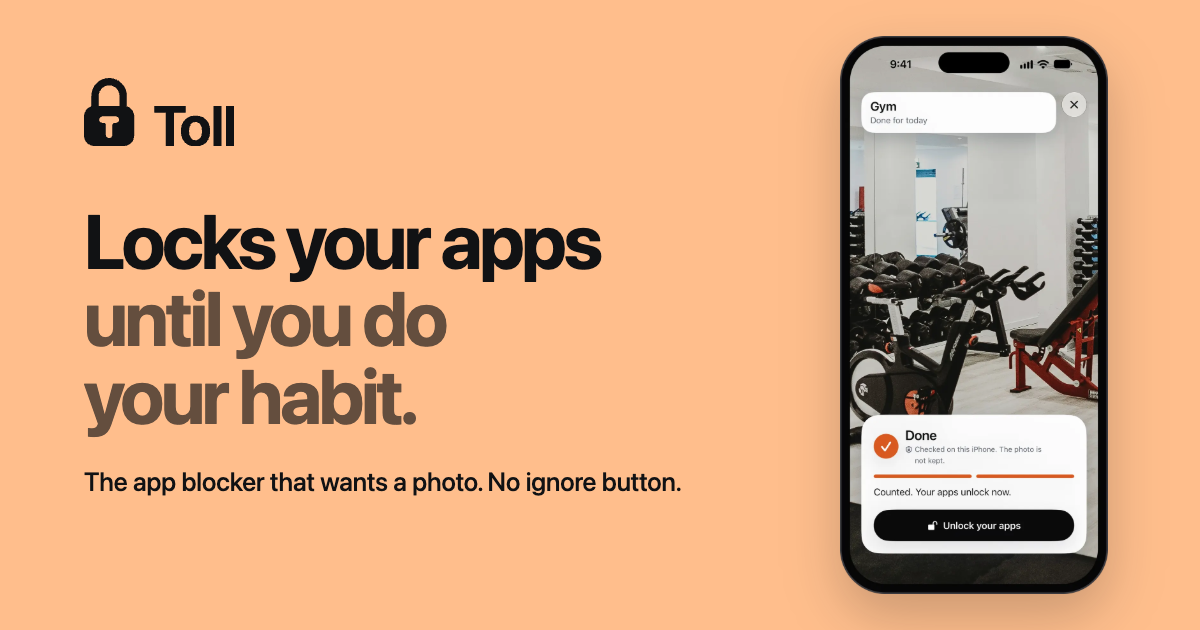
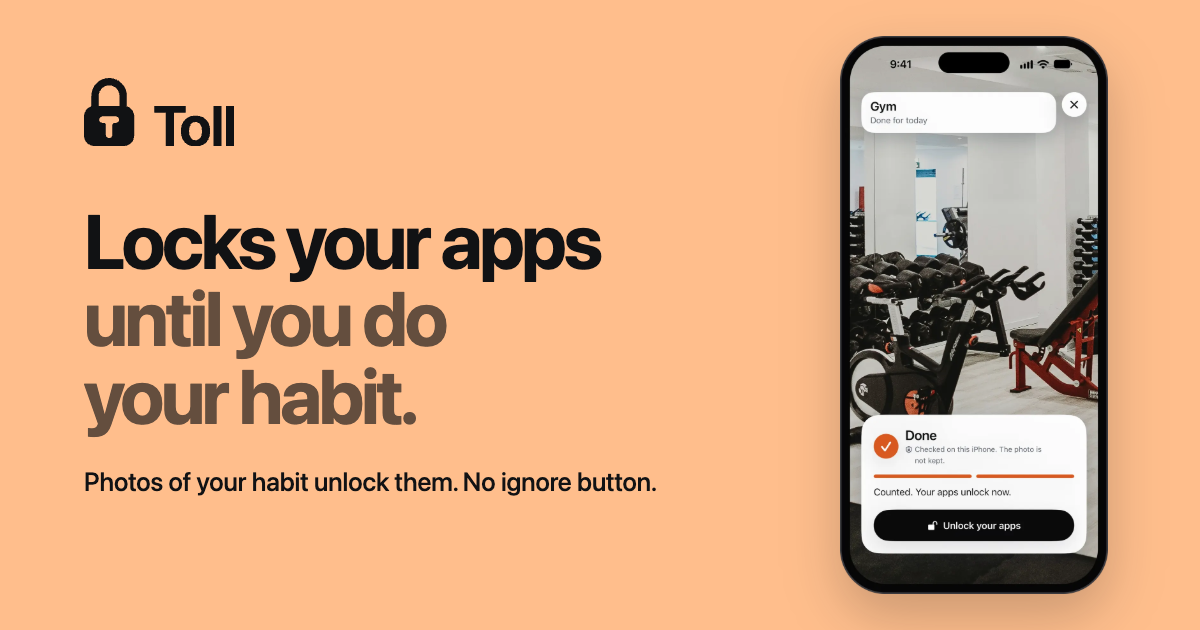
Name: Habit Photos Unlock Apps (no more 'app blocker')

Changed region(s): [[0.0617, 0.754, 0.5858, 0.7841], [0.8633, 0.1508, 0.925, 0.181]]

diff --git a/index.html b/index.html
@@ -3,12 +3,12 @@
 <head>
   <meta charset="utf-8">
   <meta name="viewport" content="width=device-width, initial-scale=1, viewport-fit=cover">
-  <title>Toll · The app blocker that wants a photo of your habit</title>
-  <meta name="description" content="Toll is an app blocker: it locks the apps you scroll too much until you prove your habit with the camera. No ignore button. 7 days free, then $29.99 a year.">
+  <title>Toll · Habit photos unlock your apps</title>
+  <meta name="description" content="Toll locks the apps you scroll too much until you prove your habit with the camera. No ignore button. 7 days free, then $29.99 a year.">
   <meta name="apple-itunes-app" content="app-id=6814730604">
   <meta name="theme-color" content="#FFBE8C">
   <meta name="color-scheme" content="light">
-  <meta property="og:title" content="Toll: App Blocker for Habits">
+  <meta property="og:title" content="Toll: Habit Photos Unlock Apps">
   <meta property="og:description" content="It locks the apps you scroll too much until you prove your habit with the camera.">
   <meta property="og:type" content="website">
   <meta property="og:url" content="https://tollapp.github.io/">
@@ -44,7 +44,7 @@
         <div class="wrap hero-grid">
           <div class="hero-copy">
             <h1 id="hero-title" class="display two-tone"><span>Locks your apps</span> <span>until you do your habit.</span></h1>
-            <p class="lede">Toll is an app blocker. It locks the apps you scroll too much until you prove your habit with the camera: a workout, your desk, a book, a walk. Most screen time limits have an ignore button. Toll doesn't.</p>
+            <p class="lede">Toll locks the apps you scroll too much. Prove your habit with the camera (a workout, your desk, a book, a walk) and they open again. Most screen time limits have an ignore button. Toll doesn't.</p>
             <div class="actions">
               <a class="btn btn-primary" href="https://apps.apple.com/app/id6814730604">Get Toll on the App Store</a>
               <a class="btn btn-secondary" href="#how">See how it works</a>
